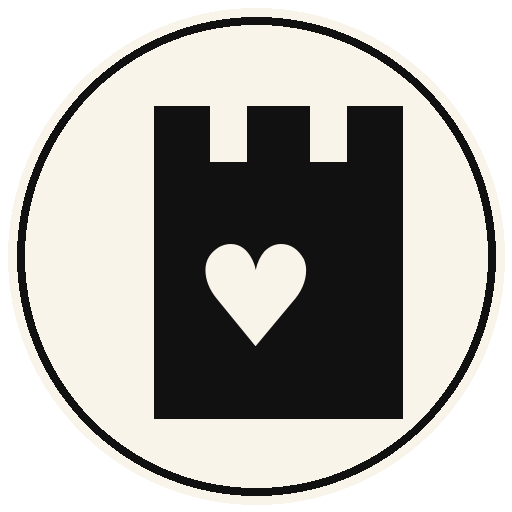
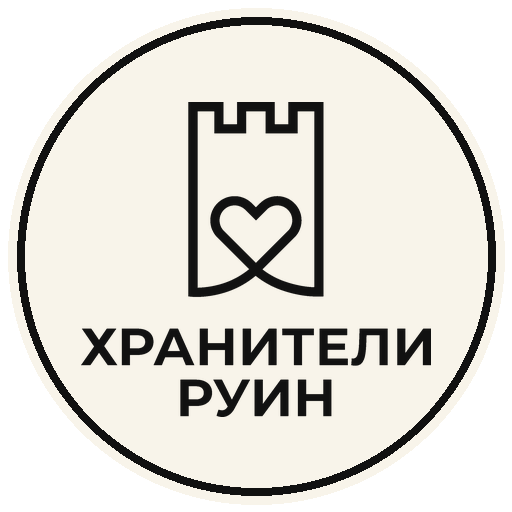
Fix source-faithful venue medallions

Changed region(s): [[0.1562, 0.1875, 0.8438, 0.8438]]

diff --git a/site/src/assets/organizers/source/README.md b/site/src/assets/organizers/source/README.md
@@ -1,6 +1,6 @@
 # Organizer medallion source assets
 
-Retrieved: 2026-06-29; `dom-kitoboya` social avatar rechecked 2026-07-01; SVG/WebP runtime pass checked 2026-07-02; venue gap medallions added 2026-07-03; venue visual tuning/WebP contract pass added 2026-07-04; seven-item Gemini/QA repair pass added 2026-07-04.
+Retrieved: 2026-06-29; `dom-kitoboya` social avatar rechecked 2026-07-01; SVG/WebP runtime pass checked 2026-07-02; venue gap medallions added 2026-07-03; venue visual tuning/WebP contract pass added 2026-07-04; seven-item Gemini/QA repair pass added 2026-07-04; source-faithfulness rereview repairs for City Jazz/Signal/Locostandup/Art Museum/Ruin Keepers added 2026-07-04.
 
 These files are official/source-faithful inputs for the first event-page organizer medallions. Final runtime assets live in `site/public/assets/organizers/`.
 
@@ -21,15 +21,15 @@ These files are official/source-faithful inputs for the first event-page organiz
 | `dramteatr39` | Калининградский драматический театр | https://dramteatr39.ru/ | https://dramteatr39.ru/img/logo.svg?v=2 | `/assets/organizers/dramteatr39.svg` | Официальный горизонтальный SVG масштабирован и обрезан кругом до левого театрального знака; фон сделан фирменно-тёмным для белого исходника. |
 | `muzteatr39` | Калининградский музыкальный театр | https://muzteatr39.ru/ | https://muzteatr39.ru/wp-content/uploads/image_theme/logo2.png | `/assets/organizers/muzteatr39.webp` (`.png` fallback) | Официальный квадратный PNG пересобран как WebP-primary медальон без трассировки; фон затемнён для контраста белого знака. |
 | `dom-iskusstv` | Калининградский театр эстрады / Дом искусств | https://домискусств39.рф/ | https://static.tildacdn.com/tild3965-6438-4135-a233-383865633034/svg.svg | `/assets/organizers/dom-iskusstv.svg` | Официальный Tilda SVG wordmark Театра эстрады/Дома искусств встроен в круглый медальон. |
-| `city-jazz-club` | Калининград Сити Джаз Клуб | https://londonpub.ru/cityjazz/events | https://static.tildacdn.com/tild6331-6539-4430-a531-343262333939/logojazz.png (`recheck-20260704/city-jazz-club.official-logojazz.png`) | `/assets/organizers/city-jazz-club.svg` (+ PNG QA fallback) | Низкое разрешение official Tilda PNG больше не масштабируется как runtime raster: круглый знак вручную пересобран в crisp SVG с золотым диском, центральным якорным знаком и крупной читаемой подписью CITY JAZZ; это отдельный venue-medallion, не фестивальный Kaliningrad City Jazz. |
+| `city-jazz-club` | Калининград Сити Джаз Клуб | https://londonpub.ru/cityjazz/events | https://static.tildacdn.com/tild6331-6539-4430-a531-343262333939/logojazz.png (`recheck-20260704/city-jazz-club.official-logojazz.png`) | `/assets/organizers/city-jazz-club.webp` (`.png` fallback) | Ручная SVG-перерисовка отклонена как исказившая реальный логотип клуба; runtime WebP-first сохраняет официальный PNG с круглым знаком и фирменной подписью без invented `CITY JAZZ CLUB` lockup. |
 | `rostec-arena` | Ростех Арена | https://www.rostec-arena.ru/ | https://www.rostec-arena.ru/theme/src/logo.svg (`recheck-20260704/rostec-arena.official-logo.svg`) | `/assets/organizers/rostec-arena.svg` (+ PNG QA fallback) | Официальный SVG-логотип сайта встроен без ручной перерисовки: сохранены фирменные голубые полосы и белый wordmark на синем градиентном круге. |
 | `bar-bastion` | Бар Бастион | https://vk.com/bar_bastion | public VK avatar `bar-bastion.vk-avatar-20260704.jpg` | `/assets/organizers/bar-bastion.webp` (`.png` fallback) | VK-аватар маскируется во внутренний круг, а золотая бренд-обводка рисуется последней; разрывы окружности от квадратного overlay устранены. |
-| `signal` | Сигнал | https://t.me/signalkld + https://signalcommunity.timepad.ru/ | Telegram avatar `recheck-20260704/signal.telegram-avatar-20260704.jpg`; Timepad `logo_org_265887.jpg` | `/assets/organizers/signal.svg` (+ PNG/WebP QA fallback) | Убран белый прямоугольник внутри тёмного круга; овальный знак «СИГНАЛ» аккуратно реконструирован как чистый SVG на белом круге; внутренние oval-strokes убраны, чтобы не было пересечений с текстом; без edge-trace shortcut. |
+| `signal` | Сигнал | https://t.me/signalkld + https://signalcommunity.timepad.ru/ | Telegram avatar `recheck-20260704/signal.telegram-avatar-20260704.jpg`; Timepad `logo_org_265887.jpg` | `/assets/organizers/signal.webp` (`.png` fallback) | SVG-наборный вариант отклонён: он потерял фирменный овал и подменил шрифт. Runtime WebP-first сохраняет официальный овальный знак, двойные oval-strokes и исходное положение нижней подписи. |
 | `mumod` | Музей курортной моды | https://mumod.ru/ | https://mumod.ru/wp-content/themes/mumod/images/logo.svg | `/assets/organizers/mumod.svg` | Официальный SVG-логотип с сайта музея встроен в светлый круглый медальон. |
 | `kldzoo` | Калининградский зоопарк | https://kldzoo.ru/ | https://kldzoo.ru/local/templates/s1/img/logo.png | `/assets/organizers/kldzoo.webp` (`.png` fallback) | Официальный квадратный PNG увеличен и отдаётся WebP-primary; внешняя салатовая обводка заменена на нейтральную. |
-| `locostandup` | Стендап-клуб «Локация» | https://locostandup.ru/ | https://img3.creatium.ru/disk2/ee/53/e9/5338346aed3353ce0b7a71e35231aeda9e/lokaciya.svg (`recheck-20260704/locostandup.official-logo.svg`) | `/assets/organizers/locostandup.svg` (+ PNG/WebP QA fallback) | Telegram microphone avatar replaced by the official site vector wordmark; light circle + red brand ring removes the unfinished square/ring crop. |
-| `kaliningrad-art-museum` | Калининградский музей изобразительных искусств | https://www.kaliningradartmuseum.ru/ | homepage inline SVG `recheck-20260704/kaliningrad-art-museum.official-inline-logo.svg`; footer PNG still kept as source | `/assets/organizers/kaliningrad-art-museum.svg` (+ PNG QA fallback) | Фон заменён на официальный бордовый `#871B30` из SVG/CSS сайта; медальон стал SVG с официальным знаком сверху и читаемой короткой подписью `МУЗЕЙ ИЗО`. |
+| `locostandup` | Стендап-клуб «Локация» | https://locostandup.ru/ | https://img3.creatium.ru/disk2/ee/53/e9/5338346aed3353ce0b7a71e35231aeda9e/lokaciya.svg (`recheck-20260704/locostandup.official-logo.svg`) | `/assets/organizers/locostandup.svg` (+ PNG/WebP QA fallback) | Официальный site SVG wordmark сохранён в круглом медальоне; добавленная ранее подпись `СТЕНДАП-КЛУБ` удалена, а кольцо сделано нейтральным серым в тон wordmark, чтобы контекстный акцент не выглядел частью логотипа. |
+| `kaliningrad-art-museum` | Калининградский музей изобразительных искусств | https://www.kaliningradartmuseum.ru/ | homepage inline SVG `recheck-20260704/kaliningrad-art-museum.official-inline-logo.svg`; footer PNG still kept as source | `/assets/organizers/kaliningrad-art-museum.svg` (+ PNG/WebP QA fallback) | Фон — официальный бордовый `#871B30`; аббревиатура `ИЗО` удалена, под официальным знаком размещена крупная читаемая подпись `МУЗЕЙ ИСКУССТВ`. |
 | `brachert` | Дом-музей Германа Брахерта | https://hbrachert.ru/ | https://hbrachert.ru/bitrix/templates/brachert/images/logo-br.png | `/assets/organizers/brachert.webp` (`.png` fallback) | Официальный PNG-логотип hbrachert.ru отдаётся WebP-primary. |
-| `ruin-keepers` | Хранители руин | https://ruin-keepers.ru/ | official 1-bit PNG logo `recheck-20260704/ruin-keepers.official-logo.png` | `/assets/organizers/ruin-keepers.svg` (+ PNG/WebP QA fallback) | Traced вариант отклонён на QA как недоделанный; знак вручную пересобран как чистый SVG по официальному мотиву башни/сердца: замкнутая башня и сердце без грубых пересечений. |
+| `ruin-keepers` | Хранители руин | https://ruin-keepers.ru/ | official 1-bit PNG logo `recheck-20260704/ruin-keepers.official-logo.png` | `/assets/organizers/ruin-keepers.webp` (`.png` fallback) | Ручной filled-tower SVG отклонён как не похожий на знак; runtime WebP-first сохраняет официальный outline tower/heart и wordmark `Хранители руин` из 1-bit PNG. |
 
 No OpenAI image generation/editing was used. The medallions were produced by local SVG rendering/vectorization, official SVG wrapping, source cropping/recomposition, and PNG fallback export. If no SVG source/vector-safe source exists, browser-facing runtime assets should be WebP-first, with PNG only as fallback/QA; old public JPG/SVG-container raster medallions are not kept as primary runtime assets.

diff --git a/docs/features/static-site-pages/event-token-medallions.md b/docs/features/static-site-pages/event-token-medallions.md
@@ -166,16 +166,16 @@ Asset inventory:
 | `dramteatr39` | Калининградский драматический театр | `/assets/organizers/dramteatr39.svg` | official `dramteatr39.ru/img/logo.svg`, scaled/cropped to the left emblem |
 | `muzteatr39` | Калининградский музыкальный театр | `/assets/organizers/muzteatr39.webp` (`.png` fallback) | official square PNG, WebP-primary raster medallion, no tracing |
 | `dom-iskusstv` | Театр эстрады / Дом искусств | `/assets/organizers/dom-iskusstv.svg` | official Tilda SVG wordmark from `домискусств39.рф` |
-| `city-jazz-club` | Калининград Сити Джаз Клуб | `/assets/organizers/city-jazz-club.svg` | club logo from `londonpub.ru/cityjazz/events`, manually rebuilt as crisp vector with large readable CITY JAZZ lettering, separate from festival medallion |
+| `city-jazz-club` | Калининград Сити Джаз Клуб | `/assets/organizers/city-jazz-club.webp` (`.png` fallback) | official low-res `logojazz.png` from `londonpub.ru/cityjazz/events`; WebP-first source-faithful crop after manual SVG redraw was rejected as logo distortion |
 | `rostec-arena` | Ростех Арена | `/assets/organizers/rostec-arena.svg` | official site SVG `/theme/src/logo.svg` wrapped into the medallion; no Telegram-avatar redraw |
 | `bar-bastion` | Бар Бастион | `/assets/organizers/bar-bastion.webp` (`.png` fallback) | public VK avatar extracted on 2026-07-04; inner avatar mask and ring-on-top repair remove broken-circle artifacts |
-| `signal` | Сигнал | `/assets/organizers/signal.svg` | clean SVG reconstruction from the official Signal oval logo; internal oval strokes were removed so nothing crosses the wordmark |
+| `signal` | Сигнал | `/assets/organizers/signal.webp` (`.png` fallback) | official Telegram/Timepad oval logo preserved as WebP-first raster; previous typeset SVG was rejected because it lost the oval and shifted the caption |
 | `mumod` | Музей курортной моды | `/assets/organizers/mumod.svg` | official SVG from `mumod.ru` |
 | `kldzoo` | Калининградский зоопарк | `/assets/organizers/kldzoo.webp` (`.png` fallback) | official square PNG from `kldzoo.ru`, enlarged and WebP-primary |
-| `locostandup` | Стендап-клуб «Локация» | `/assets/organizers/locostandup.svg` | official vector wordmark from `locostandup.ru`, replacing the unfinished Telegram-avatar crop |
-| `kaliningrad-art-museum` | Калининградский музей изобразительных искусств | `/assets/organizers/kaliningrad-art-museum.svg` | official inline SVG mark on brand burgundy `#871B30`, with readable short label `МУЗЕЙ ИЗО` |
+| `locostandup` | Стендап-клуб «Локация» | `/assets/organizers/locostandup.svg` | official vector wordmark from `locostandup.ru`; medallion wrapper no longer adds a non-logo subtitle |
+| `kaliningrad-art-museum` | Калининградский музей изобразительных искусств | `/assets/organizers/kaliningrad-art-museum.svg` | official inline SVG mark on brand burgundy `#871B30`, with readable `МУЗЕЙ ИСКУССТВ` label instead of the rejected abbreviation `ИЗО` |
 | `brachert` | Дом-музей Германа Брахерта | `/assets/organizers/brachert.webp` (`.png` fallback) | official PNG from `hbrachert.ru`, WebP-primary raster medallion |
-| `ruin-keepers` | Хранители руин | `/assets/organizers/ruin-keepers.svg` | clean manual SVG reconstruction from the official `ruin-keepers.ru` tower/heart motif after traced SVG QA was rejected |
+| `ruin-keepers` | Хранители руин | `/assets/organizers/ruin-keepers.webp` (`.png` fallback) | official 1-bit PNG logo from `ruin-keepers.ru`, WebP-first after manual SVG silhouettes were rejected as non-source-faithful |
 
 2026-07-04 venue visual tuning pass:
 
@@ -184,6 +184,13 @@ Asset inventory:
 - `bar-bastion` keeps the public VK avatar but masks the image before drawing the gold ring, so the circle no longer breaks;
 - `mumod`, `kldzoo` and earlier `kaliningrad-art-museum` sizing fixes remain from the preceding visual tuning pass;
 - runtime contract was tightened: raster/non-vector medallions in organizer/festival manifests are served as WebP primary with PNG fallback, while SVG runtime is reserved for true vector/manual-vector/official-SVG marks.
+
+
+2026-07-04 source-faithfulness rereview:
+
+- `city-jazz-club`, `signal` and `ruin-keepers` were switched from overconfident manual SVG redraws to WebP-first source-faithful medallions with PNG fallback: the manual SVGs distorted or redesigned the official logos.
+- `locostandup` keeps the official site SVG wordmark; the added contextual `СТЕНДАП-КЛУБ` subtitle was removed from the artwork.
+- `kaliningrad-art-museum` keeps the official burgundy/mark but no longer writes the rejected abbreviation `ИЗО`; the visible text is a readable `МУЗЕЙ ИСКУССТВ` label arranged inside the circle.
 
 ### Festival logo medallions
 

diff --git a/CHANGELOG.md b/CHANGELOG.md
@@ -1,6 +1,9 @@
 # Changelog
 
 ## [Unreleased]
+
+### Fixed
+- Fixed source-faithfulness issues in venue medallions: City Jazz, Signal and Ruin Keepers now use WebP-first official-source crops, Locostandup no longer adds a non-logo subtitle, and the Art Museum medallion now uses readable `МУЗЕЙ ИСКУССТВ` instead of the rejected `ИЗО` abbreviation.
 - **Static site / info partners logo board**: replaced `/partners/` card-like category tiles with a flat logo+caption board, corrected КППК naming/display, and changed visible captions to partner-specific context labels including Кантата as `партнёр по образовательной программе`.
 - **Static site / info partners density**: tightened the existing `/partners/` information-partner page on the smart-search branch into a denser logo-first board, preserving the real partner manifest while reducing card height, keeping short role labels, and retaining aspect-aware wide/tall spans plus the current `/poisk/` navigation.
 
